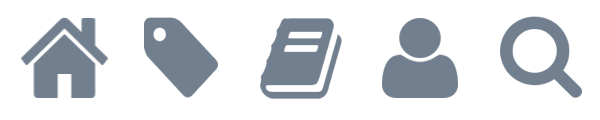
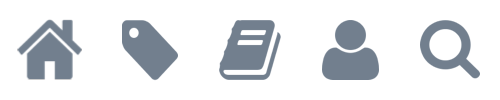
build header

diff --git a/less/main.less b/less/main.less
@@ -76,10 +76,14 @@ table {
 
 .row {
     min-width: 300px;
+    margin: 0 auto;
+    padding-left: 10px;
+    padding-right: 10px;
 }
 
 html {
     font-size: 62.5%;
+    -webkit-font-smoothing: antialiased;
 }
 
 html, body {
@@ -87,8 +91,25 @@ html, body {
     height: 100%;
 }
 
+body {
+    font-family: "Open Sans",Arial,"Hiragino Sans GB","Microsoft YaHei",
+        "微软雅黑","STHeiti","WenQuanYi Micro Hei",SimSun,sans-serif;
+}
+
 a {
     text-decoration: none;
+    color: @text-lighter;
+    outline: 0;
+
+    &:hover {
+        color: @main-green;
+    }
+}
+
+input {
+    &::-webkit-search-decoration, &::-webkit-search-cancel-button {
+        display: none;
+    }
 }
 
 /* header */
@@ -97,12 +118,12 @@ header {
 
     border-bottom: @header-border;
 
-    nav {
+    .row {
+        padding: 0;
+    }
 
-        .drop-menu {
-            display: none;
-        }
-
+    .mini-nav {
+       
         & > ul > li {
             float: right;
             border-left: @header-border;
@@ -119,31 +140,98 @@ header {
 
             & > a {
                 display: block;
-                height: 60px;
-                width: 60px;
+                height: 50px;
+                width: 50px;
                 background: url("@{img}mini-icons.png") no-repeat transparent;
                 text-indent: -9999px;
+
+                @media screen and (-webkit-device-pixel-ratio: 2) {
+                    background-image: url("@{img}mini-icons@2x.png");
+                    background-size: 250px 50px;
+                }
             }
 
-            &.tag > a {
-                background-position: -60px 0;
+            &.tag {
+                & > a {
+                    background-position: -50px 0;
+                }
             }
 
-            &.category > a {
-                background-position: -120px 0;
+            &.category {
+                & > a {
+                    background-position: -100px 0;
+                }
             }
 
-            &.about > a {
-                background-position: -180px 0;
+            &.about {
+                & > a {
+                    background-position: -150px 0;
+                }
             }
 
-            &.search > a {
-                background-position: -240px 0;
+            &.search {
+                & > a {
+                    background-position: -200px 0;
+                }
             }
         }
     }
 
-    .avatar {
+    .main-nav {
+        width: 100%;
+        float: left;
+
+        & > ul > li > a {
+            display: none;
+         }
+
+        .drop-menu {
+            border-top: @header-border; 
+            padding: 10px 5px;
+            text-align: center;
+
+            li {
+                display: inline-block;
+                padding: 5px;
+            }
+
+            li a {
+                .font-size(14);
+            }
+        }
+
+        .search {
+            border-top: @header-border; 
+            height: 35px;
+
+            input {
+                -webkit-appearance: none;
+                border: none;
+                height: 35px;
+                padding: 0 10px;
+                .font-size(14);
+
+                &:focus {
+                    border: none;
+                    outline: none;
+
+                    &::-webkit-input-placeholder {
+                        color: transparent;
+                    } 
+                }
+            }
+        }
+
+        .tag, .category, .search {
+            display: none;
+        }
+    }
+
+    .avatar  {
         display: none;
     }
+}
+
+.container {
+    margin-top: 50px;
 }

diff --git a/css/main.css b/css/main.css
@@ -142,56 +142,125 @@ table {
 }
 .row {
   min-width: 300px;
+  margin: 0 auto;
+  padding-left: 10px;
+  padding-right: 10px;
 }
 html {
   font-size: 62.5%;
+  -webkit-font-smoothing: antialiased;
 }
 html,
 body {
   width: 100%;
   height: 100%;
 }
+body {
+  font-family: "Open Sans", Arial, "Hiragino Sans GB", "Microsoft YaHei", "微软雅黑", "STHeiti", "WenQuanYi Micro Hei", SimSun, sans-serif;
+}
 a {
   text-decoration: none;
+  color: #8e8e8e;
+  outline: 0;
+}
+a:hover {
+  color: #4ab3a5;
+}
+input::-webkit-search-decoration,
+input::-webkit-search-cancel-button {
+  display: none;
 }
 /* header */
 header {
   border-bottom: 1px solid #e6eaed;
 }
-header nav .drop-menu {
-  display: none;
+header .row {
+  padding: 0;
 }
-header nav > ul > li {
+header .mini-nav > ul > li {
   float: right;
   border-left: 1px solid #e6eaed;
 }
-header nav > ul > li:first-child {
+header .mini-nav > ul > li:first-child {
   float: left;
   border-left: none;
   border-right: 1px solid #e6eaed;
 }
-header nav > ul > li.search input {
+header .mini-nav > ul > li.search input {
   display: none;
 }
-header nav > ul > li > a {
+header .mini-nav > ul > li > a {
   display: block;
-  height: 60px;
-  width: 60px;
+  height: 50px;
+  width: 50px;
   background: url("../images/mini-icons.png") no-repeat transparent;
   text-indent: -9999px;
 }
-header nav > ul > li.tag > a {
-  background-position: -60px 0;
+@media screen and (-webkit-device-pixel-ratio: 2) {
+  header .mini-nav > ul > li > a {
+    background-image: url("../images/mini-icons@2x.png");
+    background-size: 250px 50px;
+  }
 }
-header nav > ul > li.category > a {
-  background-position: -120px 0;
+header .mini-nav > ul > li.tag > a {
+  background-position: -50px 0;
 }
-header nav > ul > li.about > a {
-  background-position: -180px 0;
+header .mini-nav > ul > li.category > a {
+  background-position: -100px 0;
 }
-header nav > ul > li.search > a {
-  background-position: -240px 0;
+header .mini-nav > ul > li.about > a {
+  background-position: -150px 0;
+}
+header .mini-nav > ul > li.search > a {
+  background-position: -200px 0;
+}
+header .main-nav {
+  width: 100%;
+  float: left;
+}
+header .main-nav > ul > li > a {
+  display: none;
+}
+header .main-nav .drop-menu {
+  border-top: 1px solid #e6eaed;
+  padding: 10px 5px;
+  text-align: center;
+}
+header .main-nav .drop-menu li {
+  display: inline-block;
+  padding: 5px;
+}
+header .main-nav .drop-menu li a {
+  font-size: 14px;
+  font-size: 1.4rem;
+}
+header .main-nav .search {
+  border-top: 1px solid #e6eaed;
+  height: 35px;
+}
+header .main-nav .search input {
+  -webkit-appearance: none;
+  border: none;
+  height: 35px;
+  padding: 0 10px;
+  font-size: 14px;
+  font-size: 1.4rem;
+}
+header .main-nav .search input:focus {
+  border: none;
+  outline: none;
+}
+header .main-nav .search input:focus::-webkit-input-placeholder {
+  color: transparent;
+}
+header .main-nav .tag,
+header .main-nav .category,
+header .main-nav .search {
+  display: none;
 }
 header .avatar {
   display: none;
+}
+.container {
+  margin-top: 50px;
 }

diff --git a/index.html b/index.html
@@ -2,18 +2,27 @@
 <html lang="zh-Hans">
     <head>
         <meta charset="utf-8">
-        <meta name="viewport" content="width=device-width, initial-scale=1.0">
+        <meta name="viewport" content="width=device-width, initial-scale=1.0, user-scalable=none">
         <title>Simple Blog</title>
         <link rel="stylesheet" type="text/css" href="./css/main.css">
     </head>
     <body>
         <header class="clearfix">
-            <nav class="top-nav row clearfix">
+            <nav class="mini-nav clearfix">
+                <ul>
+                    <li class="home"><a href="#">首页</a></li>
+                    <li class="search"><a href="#">搜索</a></li>
+                    <li class="category drop"><a href="#">分类</a></li>
+                    <li class="tag drop"><a href="#">标签</a></li>
+                    <li class="about"><a href="#">关于</a></li>
+                </ul> 
+            </nav>
+            <nav class="main-nav row clearfix">
                 <ul>
                     <li class="home"><a href="#">首页</a></li>
                     <li class="tag drop">
                         <a href="#">标签</a>
-                        <ul class="drop-menu">
+                        <ul class="drop-menu clearfix">
                             <li><a href="#">TAG</a></li>
                             <li><a href="#">TAG</a></li>
                             <li><a href="#">TAG</a></li>
@@ -26,11 +35,16 @@
                             <li><a href="#">CSS</a></li>
                             <li><a href="#">TAG</a></li>
                             <li><a href="#">TAG</a></li>
+                            <li><a href="#">TAG</a></li>
+                            <li><a href="#">TAG</a></li>
+                            <li><a href="#">TAG</a></li>
+                            <li><a href="#">TAG</a></li>
+                            <li><a href="#">TAG</a></li>
                         </ul>
                     </li>
                     <li class="category drop">
                         <a href="#">分类</a>
-                        <ul class="drop-menu">
+                        <ul class="drop-menu clearfix">
                             <li><a href="#">日常</a></li>
                             <li><a href="#">编程</a></li>
                             <li><a href="#">ACG</a></li>
@@ -38,7 +52,7 @@
                         </ul>
                     </li>
                     <li class="about"><a href="#">关于</a></li>
-                    <li class="search"><a href="#">搜索</a><input type="search" placeholder="搜索"></li>
+                    <li class="search"><input type="search" placeholder="搜索"></li>
                 </ul>
             </nav>
             <div class="avatar">
